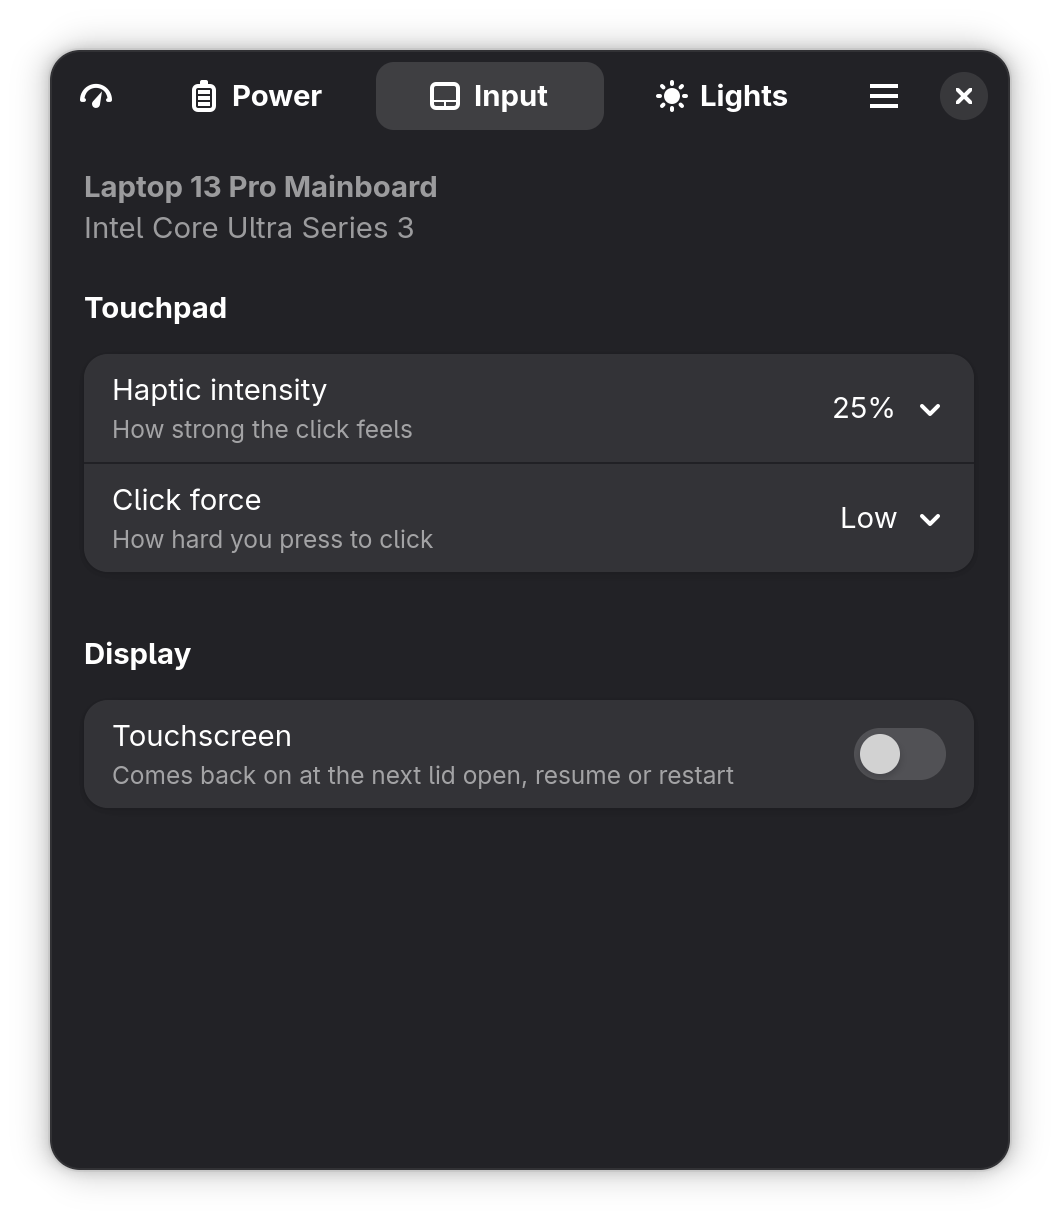
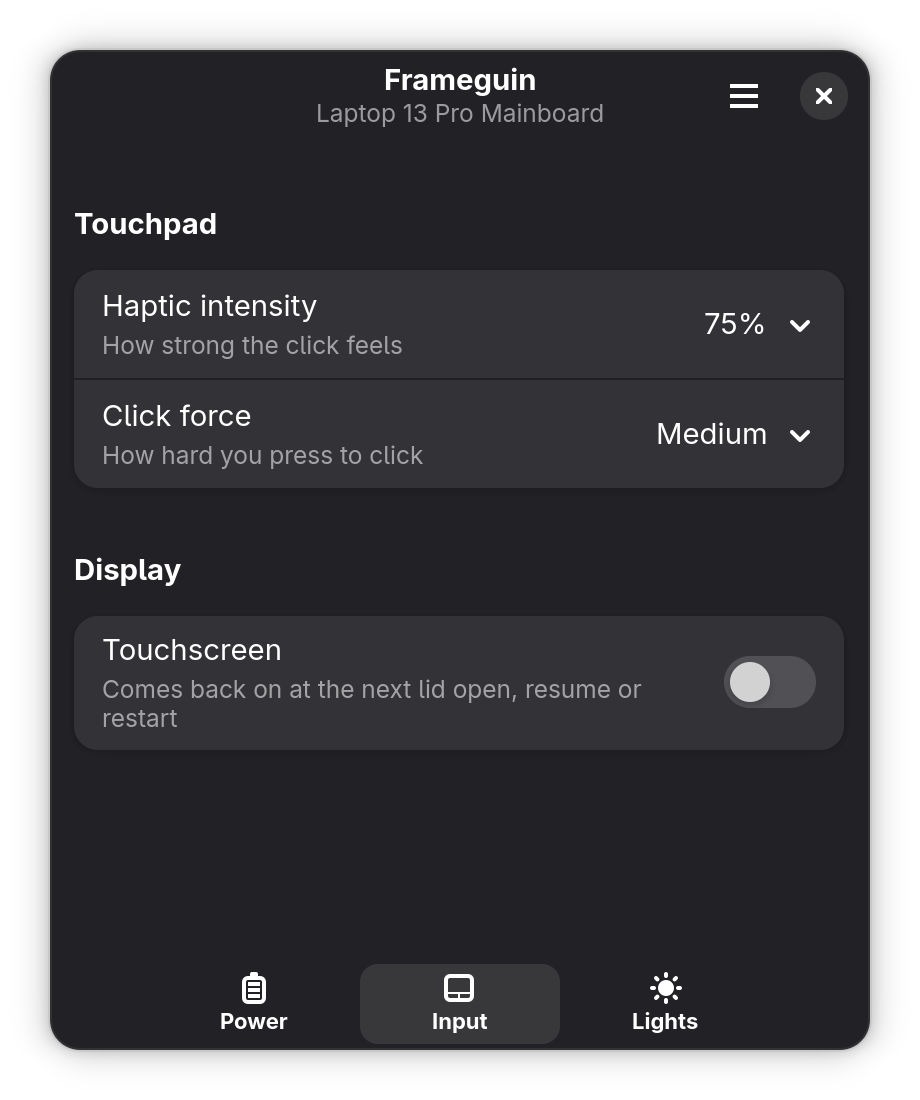
Release 0.6.0 with a USB-C port outline and tabs in a bottom bar
The minor digit marks the main window's new shape: its tabs moved to a bottom bar and Readings into the main menu.

diff --git a/README.md b/README.md
@@ -17,7 +17,7 @@ Computer Inc. Licensed under the [MIT License](LICENSE).
 <p align="center">
   <img src="docs/screenshots/power.png" alt="The Frameguin window on its Power tab: the charger and battery, and the charge limit and charge speed" width="30%">
   <img src="docs/screenshots/input.png" alt="The Input tab: the touchpad's haptic intensity and click force, and the touchscreen switch" width="30%">
-  <img src="docs/screenshots/lights.png" alt="The Lights tab: the power button LED's level and brightness, and the charging LED" width="30%">
+  <img src="docs/screenshots/lights.png" alt="The Lights tab: the power button LED's level, and the charging LED's lit side and switch" width="30%">
 </p>
 
 ## What it does
@@ -43,7 +43,7 @@ The other windows report on the machine:
   firmware.
 
 <p align="center">
-  <img src="docs/screenshots/port.png" alt="The Readings window on a USB-C port: the attached charger, the cable's speed, rating and length, and the negotiated power" width="40%">
+  <img src="docs/screenshots/port.png" alt="The Readings window's USB-C ports page: an outline of the machine with what each port carries, and the charging port's contract, measured voltage and cable" width="40%">
   <img src="docs/screenshots/hardware.png" alt="The Hardware window on the mainboard: its part number, BIOS and EC versions" width="48%">
 </p>
 
